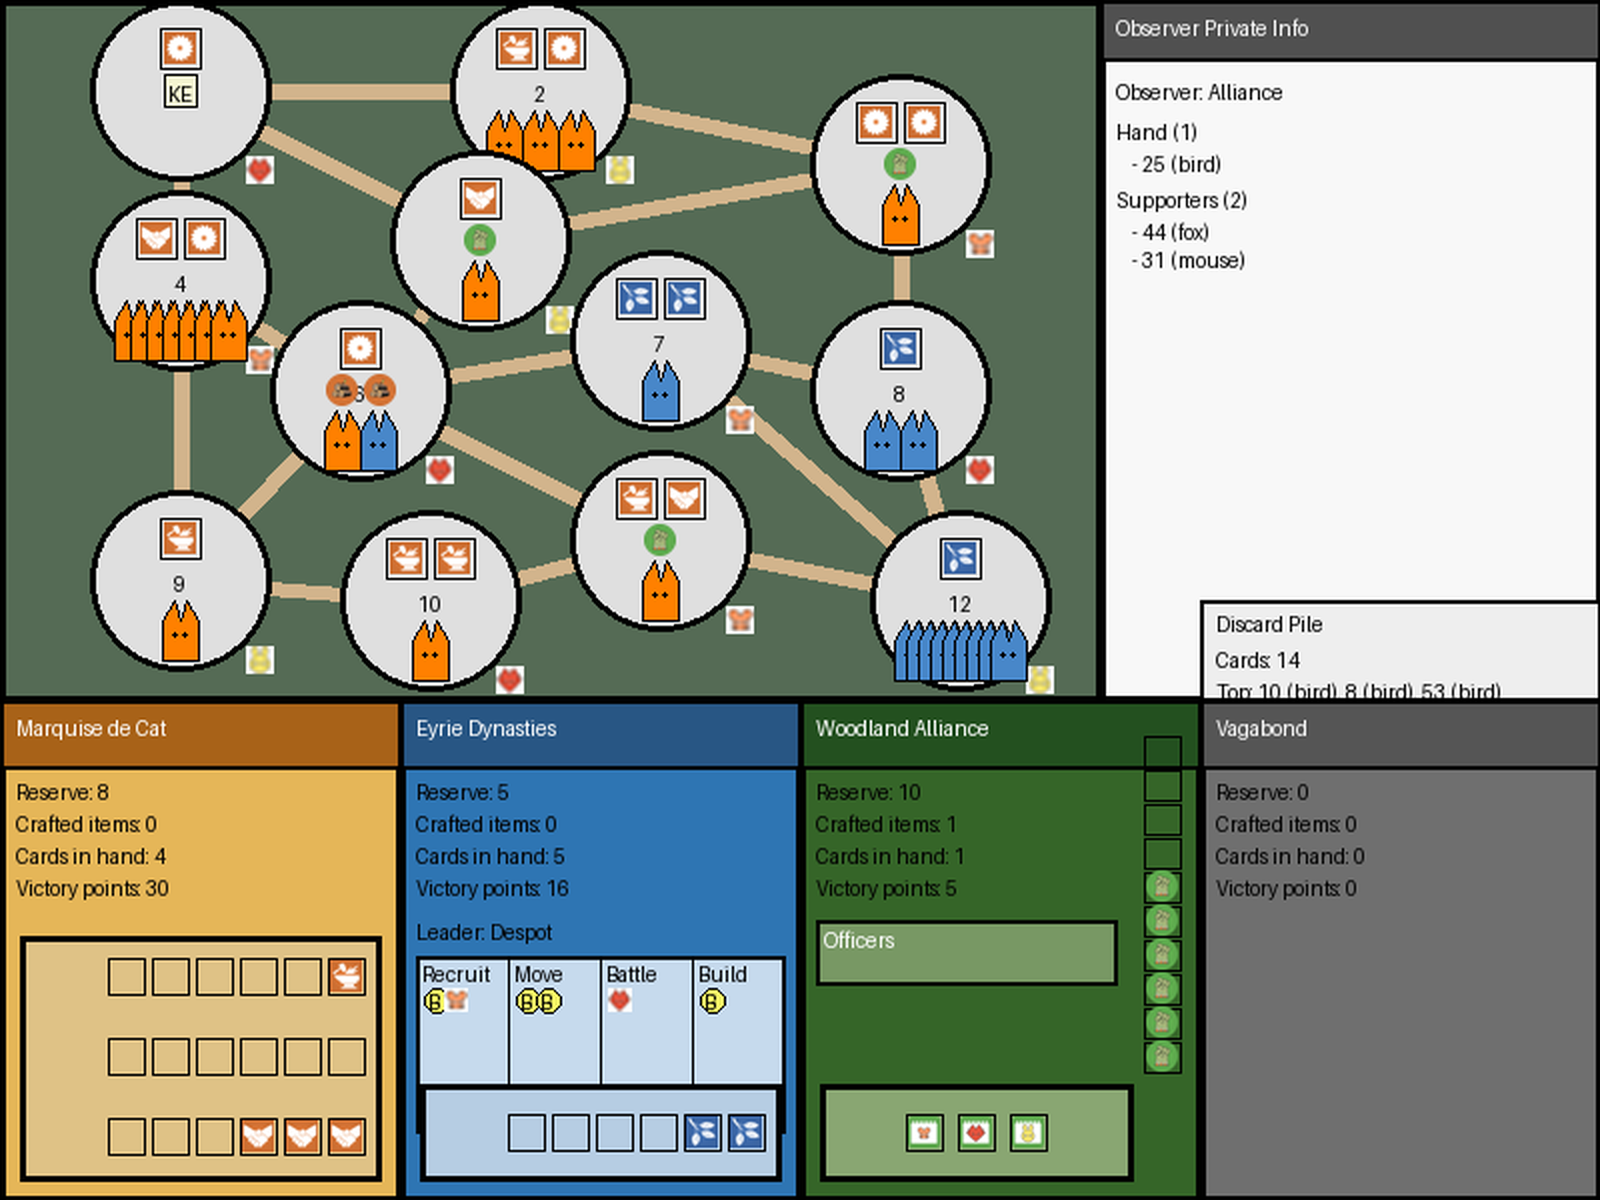
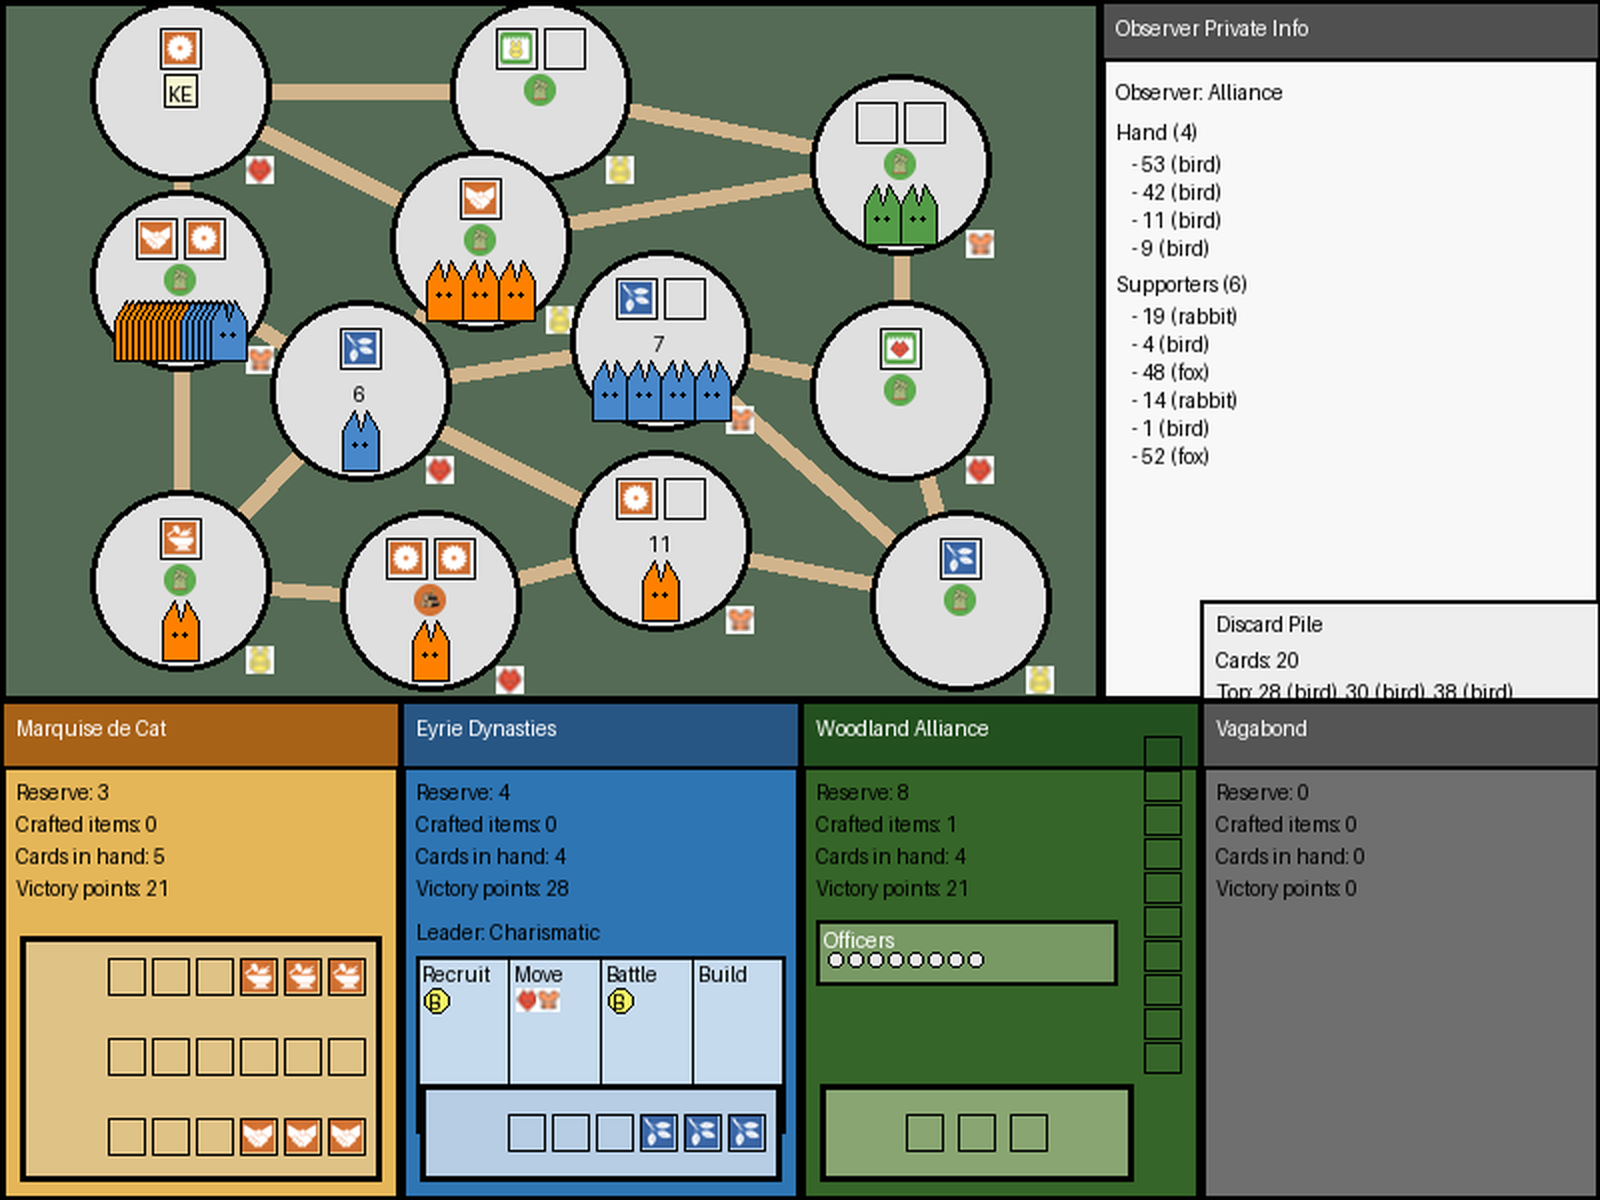
Game testing

diff --git a/main.py b/main.py
@@ -6,6 +6,7 @@ from dataclasses import dataclass
 from typing import Dict, Optional, Any
 
 import torch
+from sympy.physics.units import current
 
 from NN.allianceNN import AllianceNN
 from root_engine.actions import (
@@ -171,19 +172,20 @@ input_dim = input.numel()
 
 alliance_policy_model = AllianceNN(input_dim=input_dim, action_dim=len(action_index.actions))
 
-engine = RootEngine(seed=7, excluded_factions={Faction.VAGABOND}, marquise_ai_enabled=True,eyrie_ai_enabled=True)
+engine = RootEngine(excluded_factions={Faction.VAGABOND}, marquise_ai_enabled=True,eyrie_ai_enabled=True)
 render = state_renderer()
+for i in range(5):
+    engine = RootEngine(excluded_factions={Faction.VAGABOND}, marquise_ai_enabled=True, eyrie_ai_enabled=True)
+    while not engine.is_terminal():
+        input = AllianceNN.encode_leaf_state(engine.get_state(), observer=Faction.ALLIANCE)
+        output = alliance_policy_model(input)
 
-while not engine.is_terminal():
-    input = AllianceNN.encode_leaf_state(engine.get_state(), observer=Faction.ALLIANCE)
-    output = alliance_policy_model(input)
+        valid_actions = engine.get_valid_actions()
+        masked_output = masked_alliance_policy(output, valid_actions, action_index)
+        best_action_idx = masked_output.argmax().item()
+        best_action = action_index.actions[best_action_idx]
 
-    valid_actions = engine.get_valid_actions()
-    masked_output = masked_alliance_policy(output, valid_actions, action_index)
-    best_action_idx = masked_output.argmax().item()
-    best_action = action_index.actions[best_action_idx]
-
-    engine.apply_action(best_action)
-
-render.render_board(engine.get_observation(Faction.ALLIANCE), "game_state.png")
-print(engine.get_state().scores)
+        print(best_action)
+        render.render_board(engine.get_observation(Faction.ALLIANCE), "game_state.png")
+        engine.apply_action(best_action)
+    print(engine.get_state().scores)
